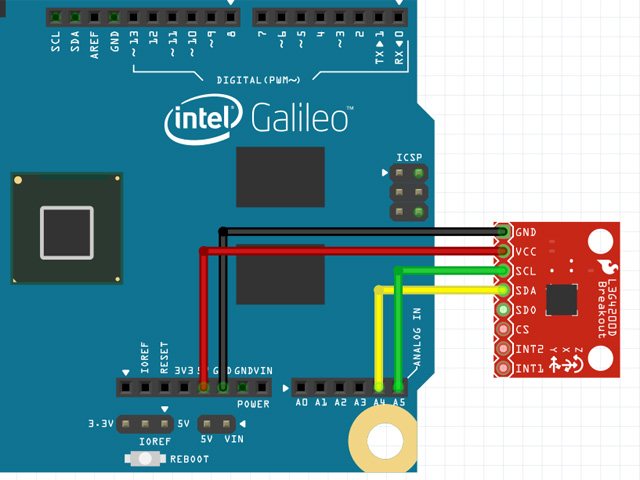
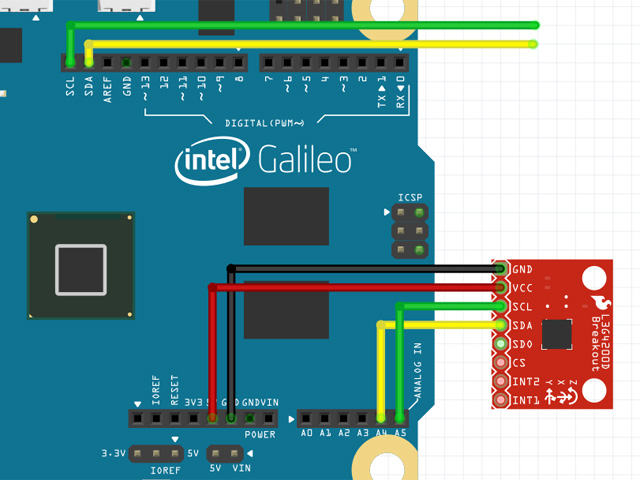
Add photo of the Motor shield.

diff --git a/BalancingRobot/MotorTest/Main.cpp b/BalancingRobot/MotorTest/Main.cpp
@@ -9,12 +9,12 @@ int _tmain(int argc, _TCHAR* argv[])
 	return RunArduinoSketch();
 }
 
+// Shield: DFRduino L289P V 1.1 
 int pin_motor_a_dir = 4;
 int pin_motor_b_dir = 7;
 
 int pin_motor_a_speed = 5;
 int pin_motor_b_speed = 6;
-
 
 void setup()
 {
@@ -22,19 +22,15 @@ void setup()
 	pinMode(pin_motor_b_dir, OUTPUT);
 	pinMode(pin_motor_a_speed, OUTPUT);
 	pinMode(pin_motor_b_speed, OUTPUT);
-
-	wprintf(L"Motor shield initialized\n");
-
-	wprintf(L"Motor shield initialized\n");
 }
 
-// the loop routine runs over and over again forever:
 void loop()
 {
-	digitalWrite(pin_motor_a_dir, HIGH);
-	digitalWrite(pin_motor_b_dir, HIGH);
-	analogWrite(pin_motor_a_speed, 128);
-	analogWrite(pin_motor_b_speed, 128);
+	// Motor A
+	digitalWrite(pin_motor_a_dir, HIGH);	// forward
+	analogWrite(pin_motor_a_speed, 255);	// 100% power
 
-	delay(1000);
+	// Motor B
+	digitalWrite(pin_motor_b_dir, LOW);		// backward
+	analogWrite(pin_motor_b_speed, 128);	// 50% power
 }

diff --git a/BalancingRobot/README.md b/BalancingRobot/README.md
@@ -30,7 +30,7 @@ Most of the models I saw before place the accelerometer to the bottom of the rob
 
 <img src="_img/accelerometer.jpg?raw=true" alt="Power circuits" width="480" height="640"/>
 
-##Microcomputer##
+##Controlling motors##
 Intel Galileo board running Windows is the "brain" of the robot. [Here](http://windowsondevices.com) you can sign up for the Windows Developer Program for IoT. The motor shield uses four digital pins on the board:
 
 | Pin |         Action        |
@@ -40,22 +40,58 @@ Intel Galileo board running Windows is the "brain" of the robot. [Here](http://w
 | 6   | Motor 2 - Speed (PWM) |
 | 7   | Motor 2 - Direction   |
 
+Lego motors require at least 300 mA current, so the external power supply is needed. The shield has a special connector for that. Check that jumpers are in PWRIN position.
+
+<img src="_img/motor_shield.jpg?raw=true" alt="Motor Shield with external power" width="640" height="480"/>
+
+
+Code example:
+``` cpp
+// Shield: DFRduino L289P V 1.1 
+
+int pin_motor_a_dir = 4;
+int pin_motor_b_dir = 7;
+
+int pin_motor_a_speed = 5;
+int pin_motor_b_speed = 6;
+
+void setup()
+{
+	pinMode(pin_motor_a_dir, OUTPUT);
+	pinMode(pin_motor_b_dir, OUTPUT);
+	pinMode(pin_motor_a_speed, OUTPUT);
+	pinMode(pin_motor_b_speed, OUTPUT);
+}
+
+void loop()
+{
+	// Motor A
+	digitalWrite(pin_motor_a_dir, HIGH);	// forward
+	analogWrite(pin_motor_a_speed, 255);	// 100% power
+
+	// Motor B
+	digitalWrite(pin_motor_b_dir, LOW);		// backward
+	analogWrite(pin_motor_b_speed, 128);	// 50% power
+}
+```
+
+
+### Using I2C on Galileo ###
+Code example:
+
 The accelerometer/gyroscope unit IMU 3000 has I2C interface and must be connected to analog pins A4 and A5 of the board:
 
 | Galileo Pin | IMU board |
 |-------------|:---------:|
-| A4          | SDA       |
-| A5          | SCL       |
+| A4 or SDA   | SDA       |
+| A5 ir SCL   | SCL       |
 | GND         | GND       |
 | 5V          | VCC       |
 <img src="_img/i2c_connection.jpg?raw=true" alt="Connecting I2C device to Galileo (Windows IoT)" width="640" height="480"/>
 
-The IMU board has 3.3V chips and internal power converter, so connecting it to 5V is Ok. I did it beciause the 5V pin is next to GND pin; that made wiring simplier.  
+The IMU board has 3.3V chips and internal power converter, so connecting it to 5V is Ok. I did it beciause the 5V pin is next to GND pin; that made wiring simplier.
 
-<img src="_img/galileo.jpg?raw=true" alt="Galileo board" width="640" height="480"/>
-
-### Using I2C on Galileo ###
-Code example:
+With the new Windows image [released on 2014-09-29](https://ms-iot.github.io/content/SetupGalileo.htm) the SDA/SCL pins near the AREF also can be used for the I2C communication. I tested it with the J2 jumper in 2-3 position (first pin marked with an arrow is free).
 
 ``` cpp
 #include <Wire.h>
@@ -108,7 +144,11 @@ void writeTo(int device, byte address, byte val) {
 }
 
 ```
-The resulting performance is about 120 reads per second, 12 bytes each.
+The resulting performance is about 200 reads per second, 12 bytes each.
+
+Having the distance between mounting holes 65 and 97 mm the board pretty good fits in lego holes that have 8-mm raster.
+
+<img src="_img/galileo.jpg?raw=true" alt="Galileo board" width="640" height="480"/>
 
 
 ### Keyboard input in the modern C###
